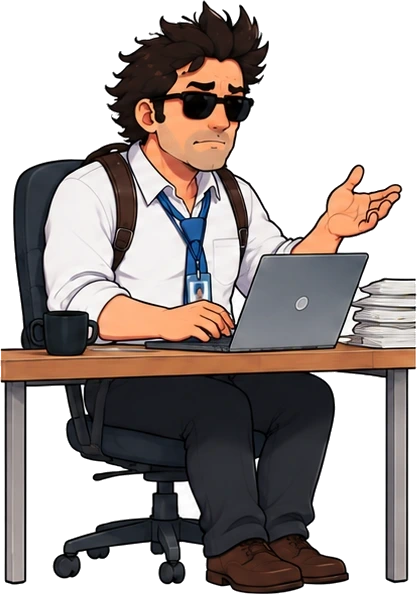
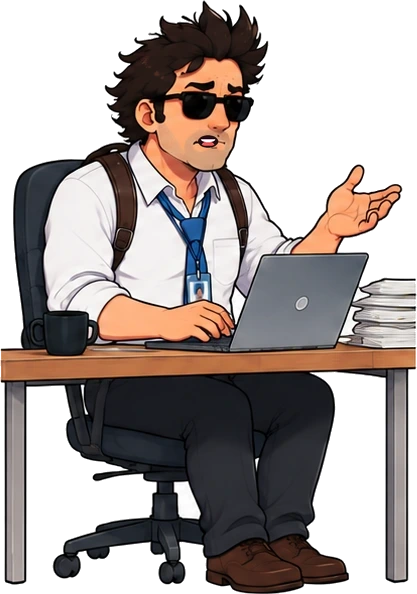
Capítulo 2: boca del Jefe sentado; preproducción con la rata a la vista desde el principio, el monitor instalando (68→100 %), error + destello + rata Puñeto a la vez, susto y huida con recursos de cómic; «efecto» admite x/y
Claude-Session: https://claude.ai/code/session_01JMuA9ngbhrTgayxwJt3uwf

diff --git a/src/lib/script/compile.ts b/src/lib/script/compile.ts
@@ -487,7 +487,7 @@ export function compileScript(raw: Obj, catalog: Catalog): { project?: PocketPro
           // recursos de cómic sobre un personaje
           // «donde: Anastas-IA» con su tele colgada: el efecto sale sobre la tele
           const onTv = toIa ? b.iaTvPos : undefined;
-          b.add({ track: "screen", effect: "comic", kind: COMIC_FX[ef], ...(near ? { actorUid: near.uid } : {}), ...(onTv ? { x: Math.round(onTv.x), y: Math.round(onTv.y) } : {}), duration: Number(st.durante) || 1.6, ...(text ? { text } : {}) });
+          b.add({ track: "screen", effect: "comic", kind: COMIC_FX[ef], ...(near ? { actorUid: near.uid } : {}), ...(onTv ? { x: Math.round(onTv.x), y: Math.round(onTv.y) } : !near && typeof st.x === "number" && typeof st.y === "number" ? { x: Math.round(st.x), y: Math.round(st.y) } : {}), duration: Number(st.durante) || 1.6, ...(text ? { text } : {}) });
         } else issues.push({ path: `${sp}.efecto`, message: `efecto «${String(st.efecto)}» no existe (explosion, pantallazo, destello, temblor, oscuro, sudor, sorpresa, enfado, lineas, risa, onomatopeya, corazones, mareo)` });
       } else if (st.camara !== undefined) {
         // planos de cámara: «general», «medio» / «primer_plano» de alguien, o un punto con zoom; «mover»: travelling suave
